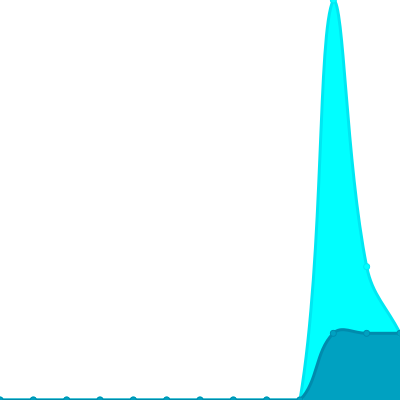
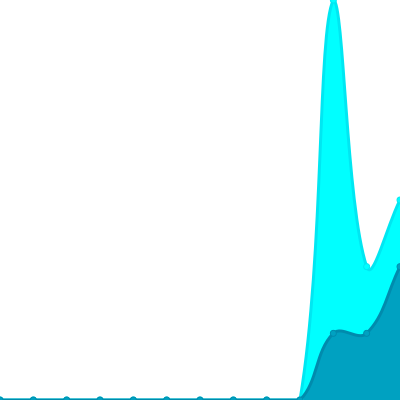
Update views

Changed region(s): [[0.84, 0.48, 1.0, 0.84], [0.87, 0.27, 0.9, 0.57], [0.84, 0.03, 0.87, 0.27]]

diff --git a/readme/570893005/year.md b/readme/570893005/year.md
@@ -23,10 +23,10 @@
 			<code>2023/1/1</code>
 		</td>
 		<td>
-			<code>1</code>
+			<code>2</code>
 		</td>
 		<td>
-			<code>1</code>
+			<code>3</code>
 		</td>
 	</tr>
 	<tr>
@@ -164,7 +164,7 @@
 </table>
 
 </details>
-<small><i>Last updated on 2023/1/15 6:15 AM UTC</i></small>
+<small><i>Last updated on 2023/1/15 12:21 PM UTC</i></small>
 
 ## ✂Copy and 📋 Paste
 ### SVG Badge

diff --git a/README.md b/README.md
@@ -37,7 +37,7 @@ The project created and maintained by [gayanvoice](https://github.com/gayanvoice
 	</tr>
 </table>
 
-<small><i>Last updated on 2023/1/15 6:15 AM UTC</i></small>
+<small><i>Last updated on 2023/1/15 12:21 PM UTC</i></small>
 
 ## ✂Copy and 📋 Paste
 ### Total Views Badge
